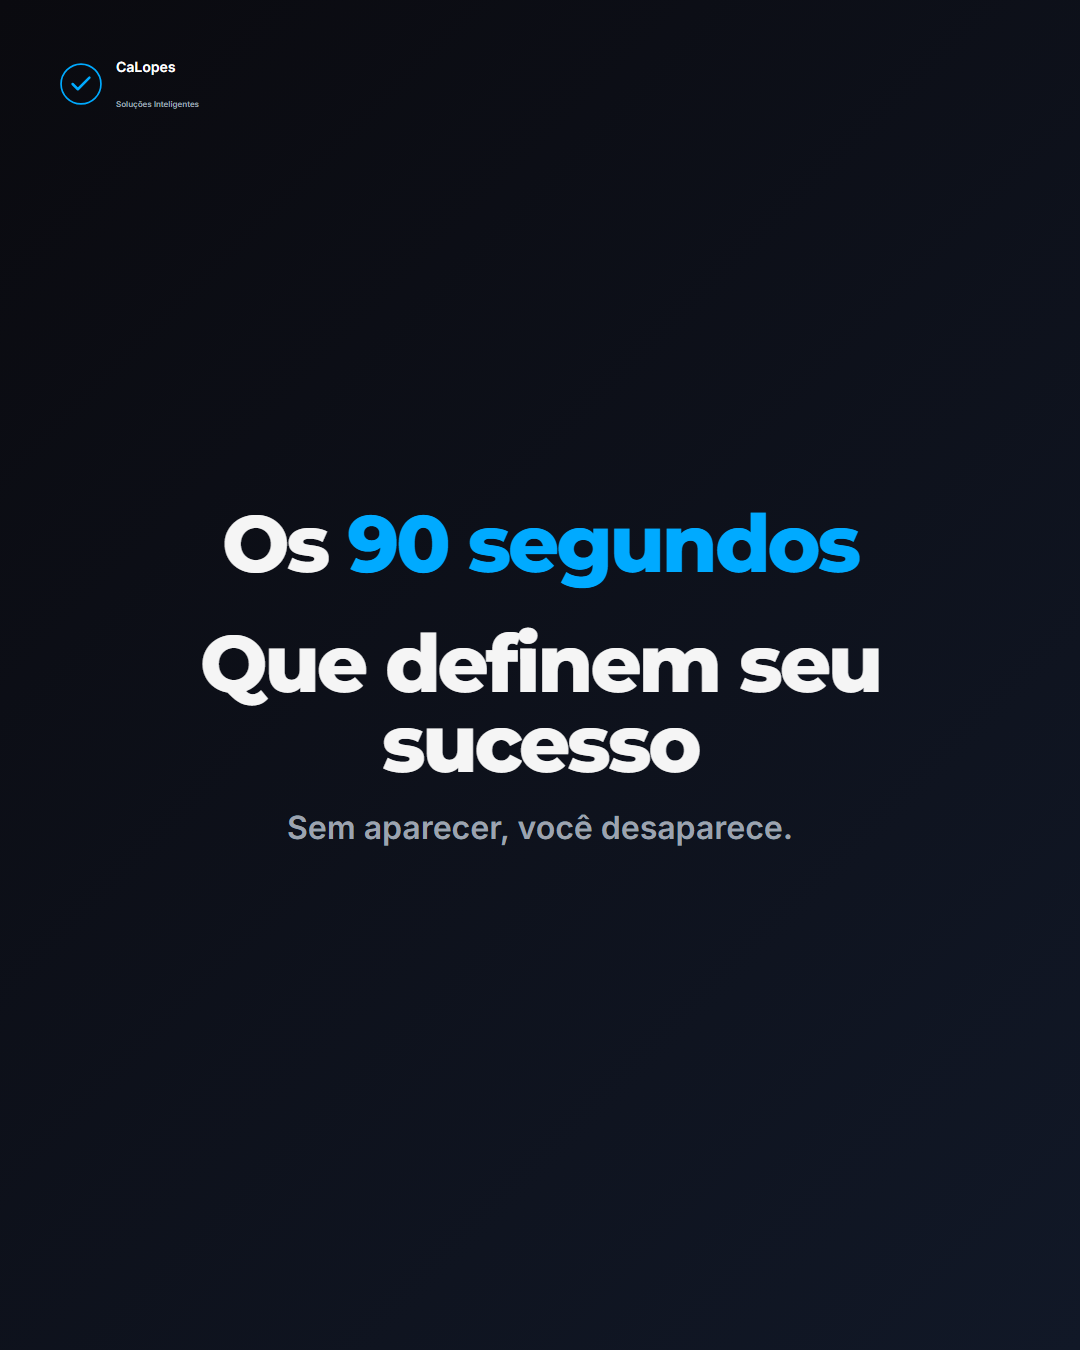
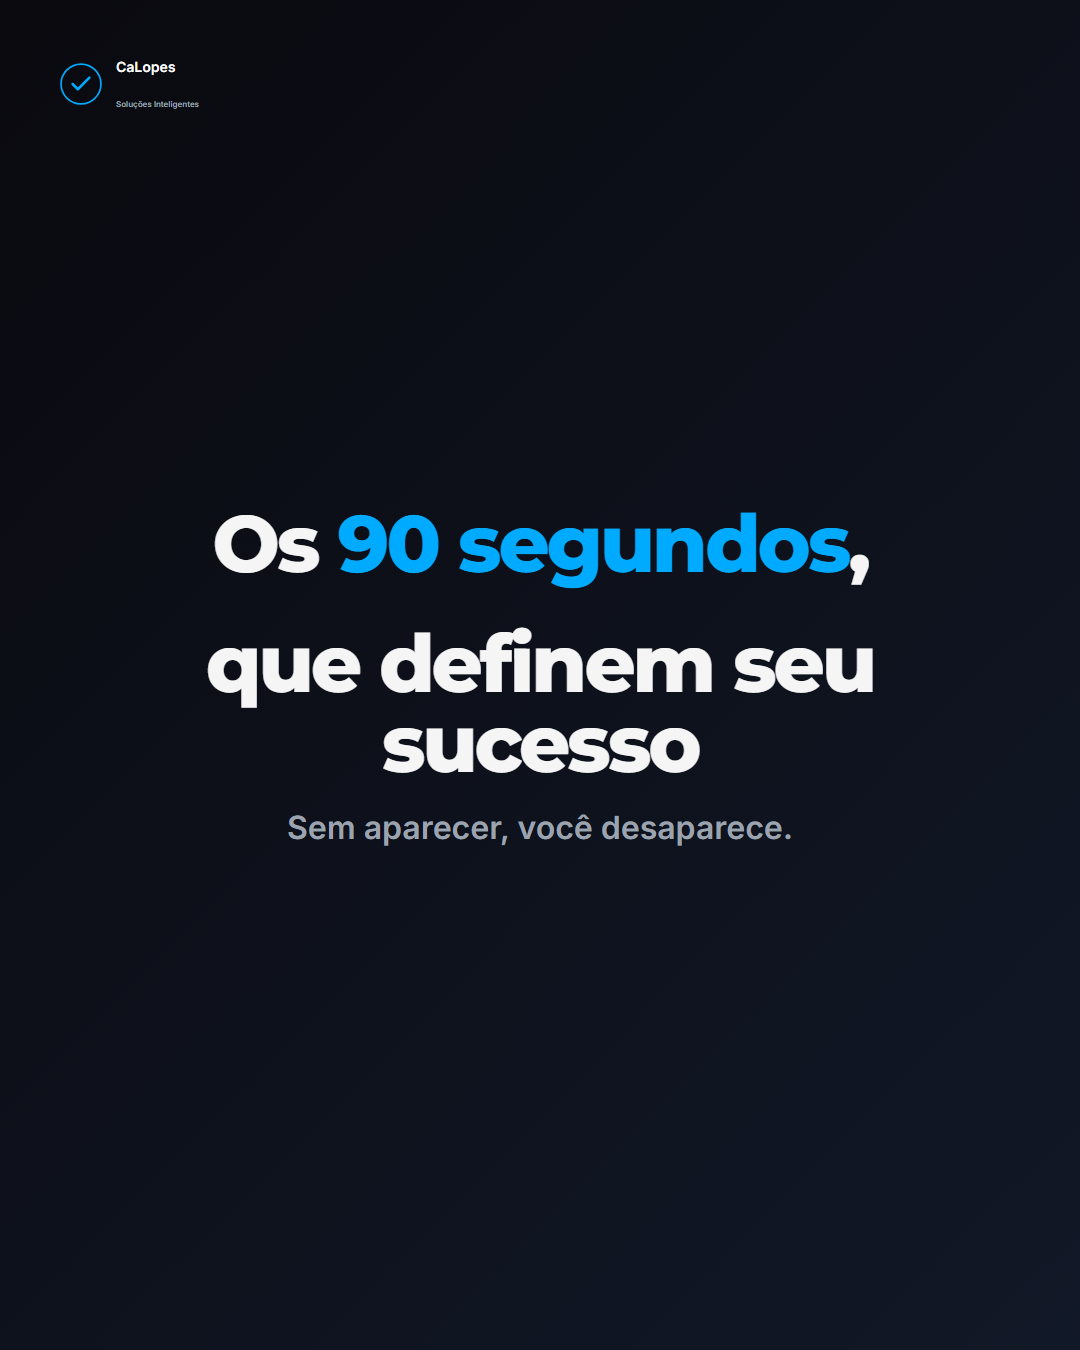
refactor: carrossel-04 com foco em 5 segundos na internet, melhor CTA e garantia de 7 dias

Changed region(s): [[0.1833, 0.4667, 0.825, 0.5289], [0.1833, 0.3733, 0.825, 0.4356]]

diff --git a/clientes/calopes/instagram/carrossel-04-90-segundos/carrossel.html b/clientes/calopes/instagram/carrossel-04-90-segundos/carrossel.html
@@ -257,8 +257,8 @@
             </div>
         </div>
         <div class="content">
-            <h1>Os <span class="highlight">90 segundos</span></h1>
-            <h1 style="margin-top: 0.5em;">Que definem seu sucesso</h1>
+            <h1>Os <span class="highlight">90 segundos</span>,</h1>
+            <h1 style="margin-top: 0.5em;">que definem seu sucesso</h1>
             <p class="subtitle">Sem aparecer, você desaparece.</p>
         </div>
     </div>
@@ -278,9 +278,12 @@
             </div>
         </div>
         <div class="content">
-            <div class="big-stat">80%</div>
-            <p style="font-size: 28px; color: var(--text-primary); font-weight: 600;">dos clientes pesquisam no Google antes de ligar.</p>
-            <p style="margin-top: 2rem; font-size: 24px;">Se você não aparece lá nos primeiros <span class="highlight">90 segundos</span> de busca, o cliente já foi para o concorrente.</p>
+            <p style="font-size: 28px; color: var(--text-secondary); font-weight: 600;">Na vida real:</p>
+            <div class="big-stat" style="color: #9CA3AF; font-size: 72px;">90 segundos</div>
+            <p style="font-size: 24px; margin-top: 1rem;">para formar uma primeira impressão.</p>
+            <p style="margin-top: 3rem; font-size: 28px; color: var(--text-secondary); font-weight: 600;">Na internet:</p>
+            <div class="big-stat" style="color: var(--danger); font-size: 92px;">5 segundos</div>
+            <p style="font-size: 24px; margin-top: 1rem;">Se seu site não convence em <span class="highlight">5 segundos</span>, o cliente já saiu.</p>
         </div>
     </div>
 
@@ -302,7 +305,7 @@
             <h2 style="font-size: 56px;">A verdade incômoda:</h2>
             <p style="font-size: 28px; margin-top: 2rem;">Seu site não aparece não porque você é ruim.</p>
             <p style="font-size: 28px; margin-top: 1.5rem;">Aparece porque o Google entende <span class="highlight">que seu site é importante.</span></p>
-            <p style="font-size: 22px; margin-top: 2rem; color: #9CA3AF;">A maioria das óticas e pequenos negócios não aparecem porque ninguém configurou isso.</p>
+            <p style="font-size: 22px; margin-top: 2rem; color: #9CA3AF;">Seja clínica, salão, loja, consultório ou serviço — a maioria não aparece porque ninguém configurou o site corretamente.</p>
         </div>
     </div>
 
@@ -345,12 +348,15 @@
             </div>
         </div>
         <div class="content">
-            <h2 style="font-size: 64px;">Como você aparece nos primeiros 90 segundos?</h2>
-            <div class="checklist" style="margin-top: 2rem;">
-                <div class="check-item" style="font-size: 26px;">Site estruturado pra Google entender</div>
-                <div class="check-item" style="font-size: 26px;">Velocidade rápida no celular</div>
-                <div class="check-item" style="font-size: 26px;">Autoridade local (Google Meu Negócio)</div>
+            <h2 style="font-size: 60px;">A velocidade é tudo:</h2>
+            <div style="background: var(--bg-dark); padding: 2rem; border-radius: 8px; margin: 2rem 0;">
+                <p style="font-size: 22px; line-height: 2; margin: 0;">
+                    <span class="highlight">0,2 segundos</span> — primeira impressão visual<br>
+                    <span class="highlight">2,6 segundos</span> — atenção em detalhes<br>
+                    <span class="highlight">3 a 7 segundos</span> — decisão de ficar ou sair
+                </p>
             </div>
+            <p style="font-size: 24px; margin-top: 1.5rem;">Se o site demora mais que isso para carregar, você já perdeu o cliente.</p>
         </div>
     </div>
 
@@ -391,13 +397,13 @@
             </div>
         </div>
         <div class="content">
-            <h2 style="margin-bottom: 1.5rem;">Pronto para começar?</h2>
-            <p style="font-size: 26px; margin-bottom: 1.5rem;">Vamos conversar 10 minutos sobre seu site.</p>
-            <p style="font-size: 22px; color: var(--text-secondary); margin-bottom: 2rem;"><span class="highlight">Sem compromisso.</span> Você vai entender exatamente por que não aparece e quanto está deixando de ganhar.</p>
-            <div class="cta-box">
-                <p class="cta-text">Link na bio</p>
-                <p class="cta-link">Marca um horário</p>
+            <h2 style="margin-bottom: 2rem;">Vamos começar?</h2>
+            <p style="font-size: 24px; margin-bottom: 3rem; color: var(--text-secondary);">Conversa de 10 minutos. Sem compromisso.</p>
+            <div style="margin-bottom: 3rem;">
+                <p style="font-size: 72px; font-weight: 800; color: var(--accent); margin: 0; line-height: 1;">Link na bio</p>
             </div>
+            <p style="font-size: 22px; color: var(--text-secondary); margin-top: 2rem;">Tem 7 dias para se arrepender e pedir reembolso.</p>
+            <p style="font-size: 20px; color: #9CA3AF; margin-top: 1rem; font-style: italic;">Sem risco.</p>
         </div>
     </div>
 

diff --git a/clientes/calopes/instagram/carrossel-04-90-segundos/legenda.md b/clientes/calopes/instagram/carrossel-04-90-segundos/legenda.md
@@ -1,17 +1,18 @@
-# Legenda — Carrossel 04: Os 90 Segundos que Definem seu Sucesso
+# Legenda — Carrossel 04: Os 90 Segundos, que Definem seu Sucesso
 
 ```
-80% das pessoas pesquisam no Google antes de ligar.
+Na vida real: 90 segundos para formar uma impressão.
+Na internet: 5 segundos.
 
-Se você não aparece lá, o cliente nunca chega até você.
+Se seu site não convence em 5 segundos, o cliente já saiu.
 
-A maioria dos donos de ótica e pequenos negócios não aparece não porque é ruim — aparece porque ninguém configurou o site para o Google entender que você existe.
+Não é porque você é ruim. É porque seu site não está configurado para vender rapidamente.
 
-Enquanto isso, você está perdendo clientes toda semana para quem SIM aparece nos primeiros resultados.
+Velocidade, estrutura, clareza — tudo importa nos primeiros 5 segundos.
 
-Quer saber se seu site está aparecendo? Manda um DM que faço uma análise rápida.
+Quer saber se seu site está perdendo clientes? Manda um DM.
 
-Link na bio para marcar uma conversa de 10 minutos. Sem compromisso. Você vai entender exatamente quanto está deixando de ganhar.
+Link na bio para conversar 10 minutos. Sem compromisso. Tem 7 dias para se arrepender.
 
-#seo #google #siteprofissional #pequenasempresas #calopes #conversaodevizitas
+#seo #velocidade #siteprofissional #primeiraimpressao #calopes #conversaodevizitas
 ```
